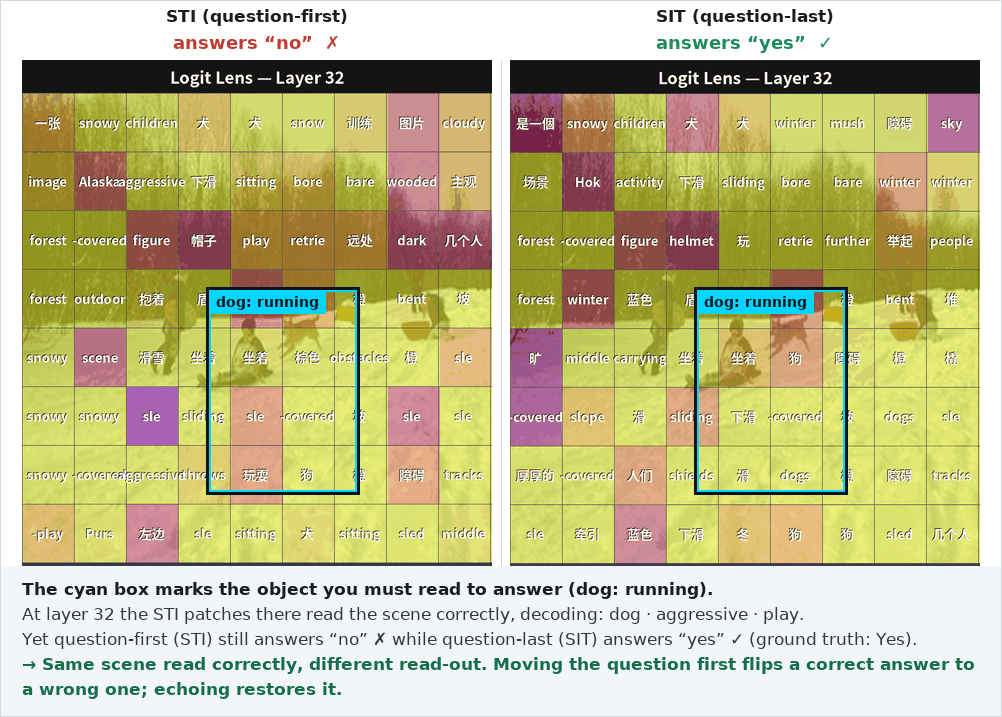
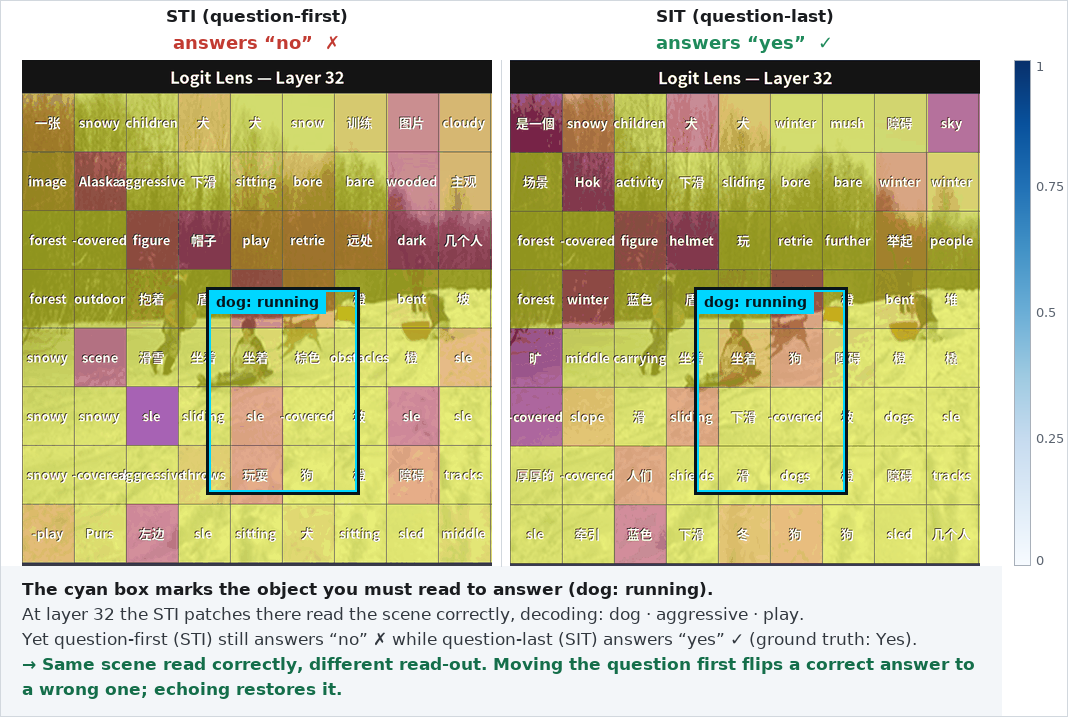
Site: bake the vertical confidence scale into the comparison still, aligned to the grid rows

diff --git a/website/build_cmp_still.py b/website/build_cmp_still.py
@@ -112,6 +112,24 @@ F_VERD = font("DejaVuSans-Bold.ttf", 18)
 F_BODY = font("DejaVuSans.ttf", 17)
 F_BODYB = font("DejaVuSans-Bold.ttf", 17)
 F_TAG = font("DejaVuSans-Bold.ttf", 14)
+F_TICK = font("DejaVuSans.ttf", 13)
+
+# Blues colormap stops (light -> dark), matching the GIF logit lens.
+BLUES = [(247, 251, 255), (222, 235, 247), (198, 219, 239), (158, 202, 225),
+         (107, 174, 214), (66, 146, 198), (33, 113, 181), (8, 81, 156),
+         (8, 48, 107)]
+SCALE_W = 66                       # right-hand band that holds the vertical scale
+
+
+def blues(t):
+    """Interpolate the Blues colormap; t=0 -> lightest, t=1 -> darkest."""
+    t = min(1.0, max(0.0, t)) * (len(BLUES) - 1)
+    i = int(t)
+    if i >= len(BLUES) - 1:
+        return BLUES[-1]
+    f = t - i
+    a, b = BLUES[i], BLUES[i + 1]
+    return tuple(int(round(a[k] + (b[k] - a[k]) * f)) for k in range(3))
 
 
 # exact rendered colours of the section-header bands (SYSTEM=teal, TASK=blue,
@@ -380,16 +398,29 @@ def panel(e):
         y += lh
 
     # ---- assemble ----
-    out = Image.new("RGB", (W, hh + ch + h + fh), (255, 255, 255))
+    Wt = W + SCALE_W                       # extra right band for the vertical scale
+    out = Image.new("RGB", (Wt, hh + ch + h + fh), (255, 255, 255))
     out.paste(caps, (0, hh))
     out.paste(sti_img, (PAD, hh + ch))
     out.paste(sit_img, (PAD + cw + COLGAP, hh + ch))
     out.paste(footer, (0, hh + ch + h))
     dd = ImageDraw.Draw(out)
-    dd.rectangle([0, 0, W - 1, out.height - 1], outline=LINE, width=1)
+    dd.rectangle([0, 0, Wt - 1, out.height - 1], outline=LINE, width=1)
     # thin divider between the two columns
     xdiv = PAD + cw + COLGAP // 2
     dd.line([xdiv, hh + ch, xdiv, hh + ch + h], fill=LINE, width=1)
+
+    # ---- vertical confidence scale, aligned to the grid rows (top=1, bottom=0) ----
+    y0, y1 = hh + ch, hh + ch + h
+    sx, barw = W + 12, 16
+    for yy in range(y0, y1):
+        t = 1.0 - (yy - y0) / max(1, (y1 - y0 - 1))
+        dd.line([(sx, yy), (sx + barw, yy)], fill=blues(t))
+    dd.rectangle([sx, y0, sx + barw, y1 - 1], outline=(168, 176, 186), width=1)
+    for frac, lab in ((0.0, "1"), (0.25, "0.75"), (0.5, "0.5"),
+                      (0.75, "0.25"), (1.0, "0")):
+        ty = min(max(int(y0 + frac * (y1 - y0 - 1)), y0 + 6), y1 - 6)
+        dd.text((sx + barw + 6, ty), lab, font=F_TICK, fill=MUT, anchor="lm")
     return out, layer
 
 
